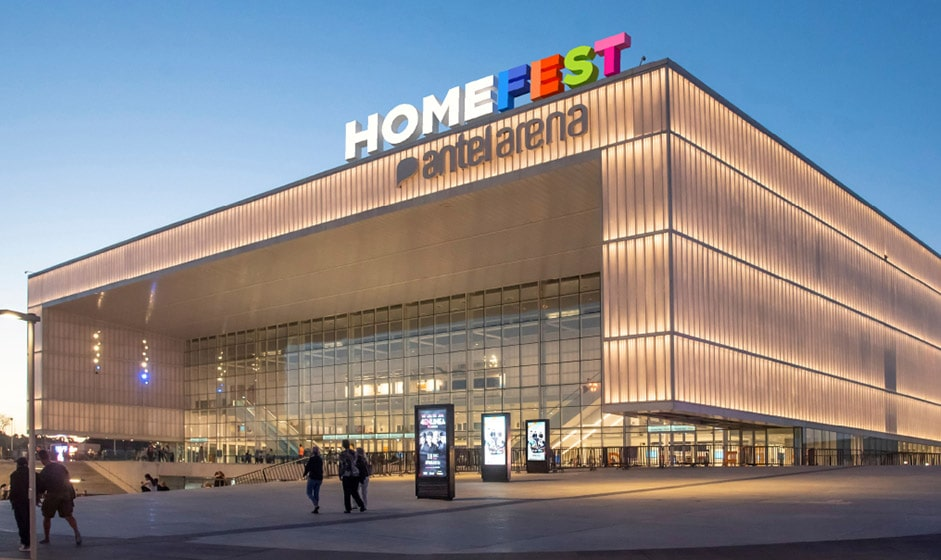
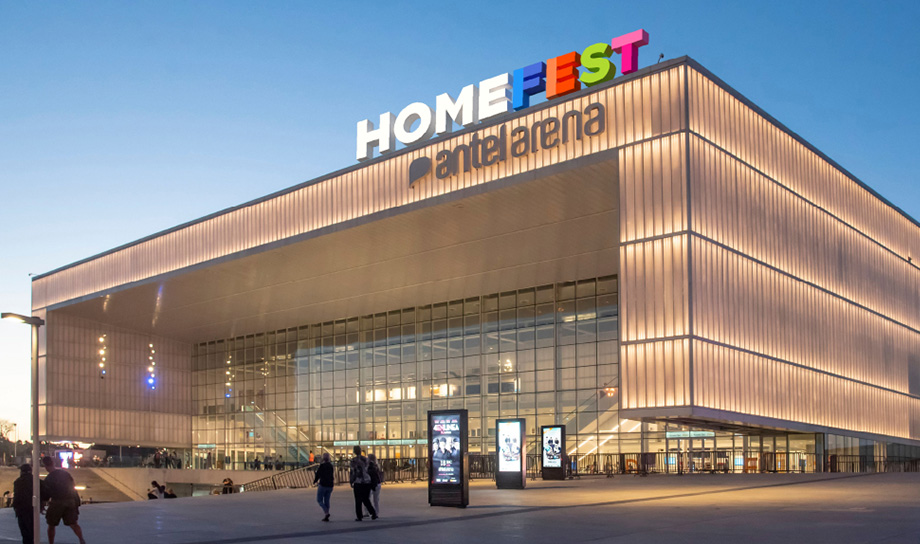
1017 09062022 images

diff --git a/index.html b/index.html
@@ -459,7 +459,7 @@
       </div>
     </div>
     <div class="informat_right">
-      <img src="assets/images/antel-arena-d.jpg" alt="" class="d-md-none d-block" loading="lazy">
+      <img src="assets/images/antel-arena-m.jpg" alt="" class="d-md-none d-block" loading="lazy">
     </div>
   </section>
   <!--<section id="entradas" class="tickets">
